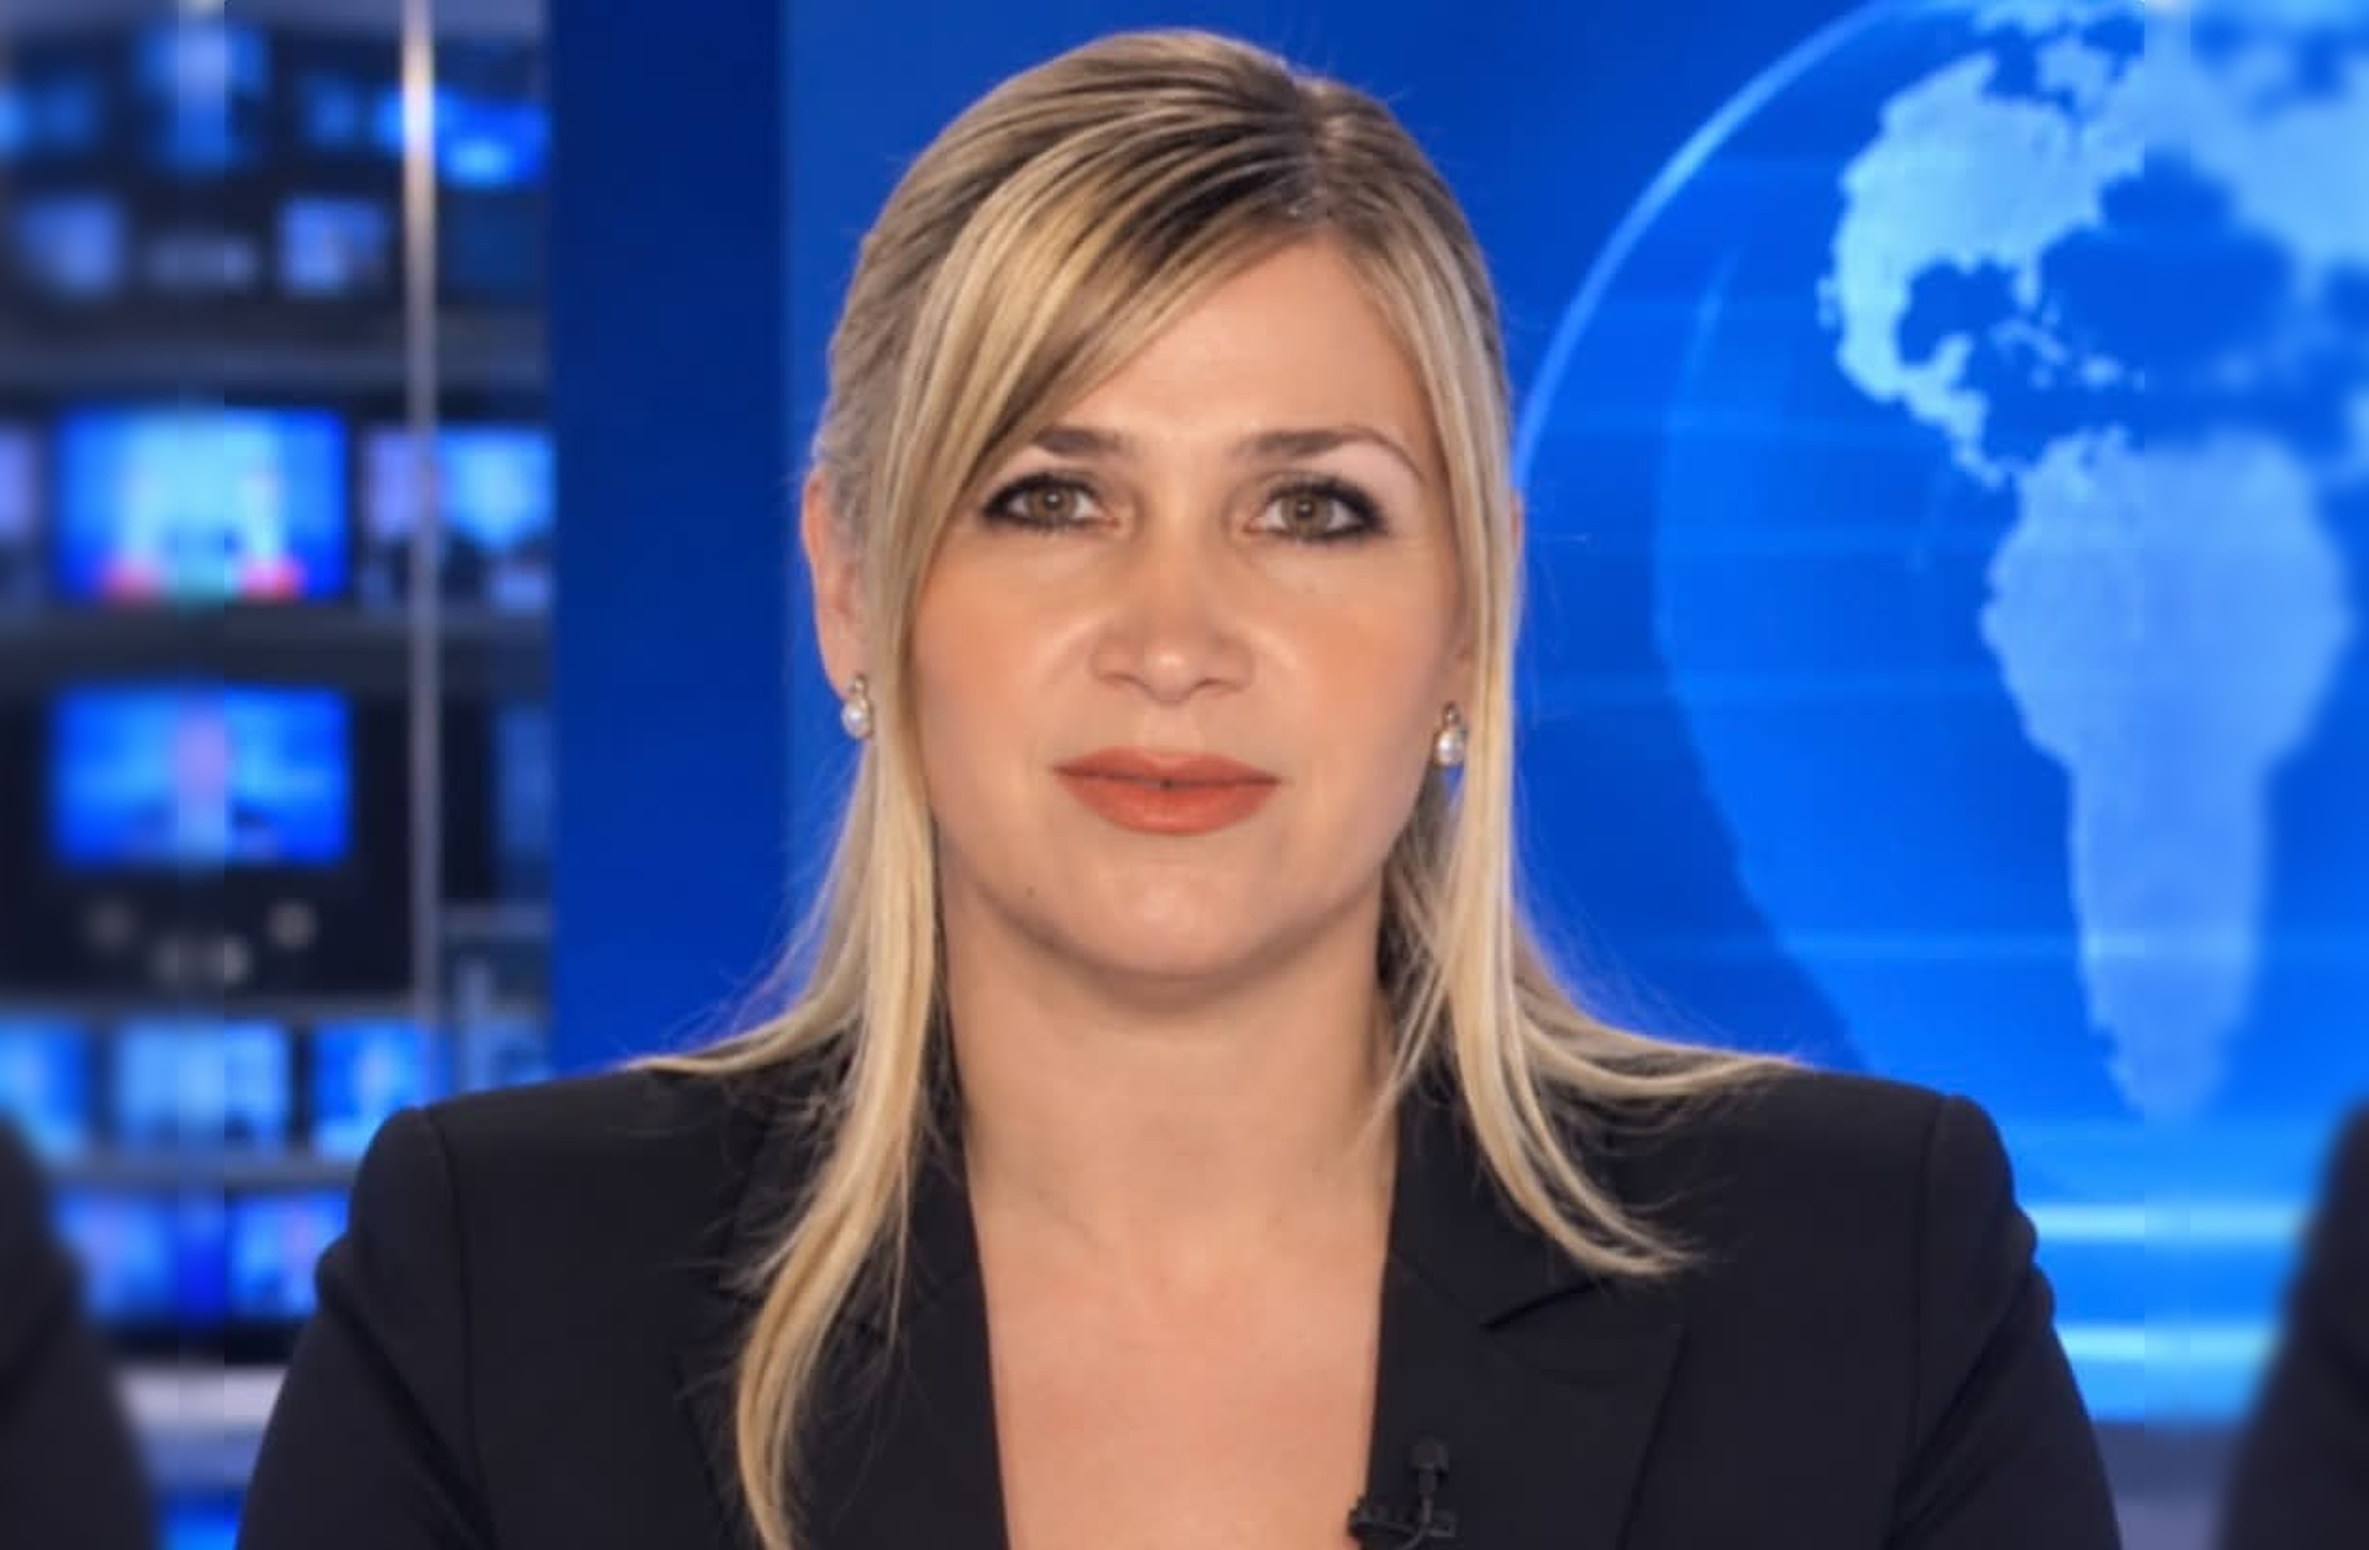
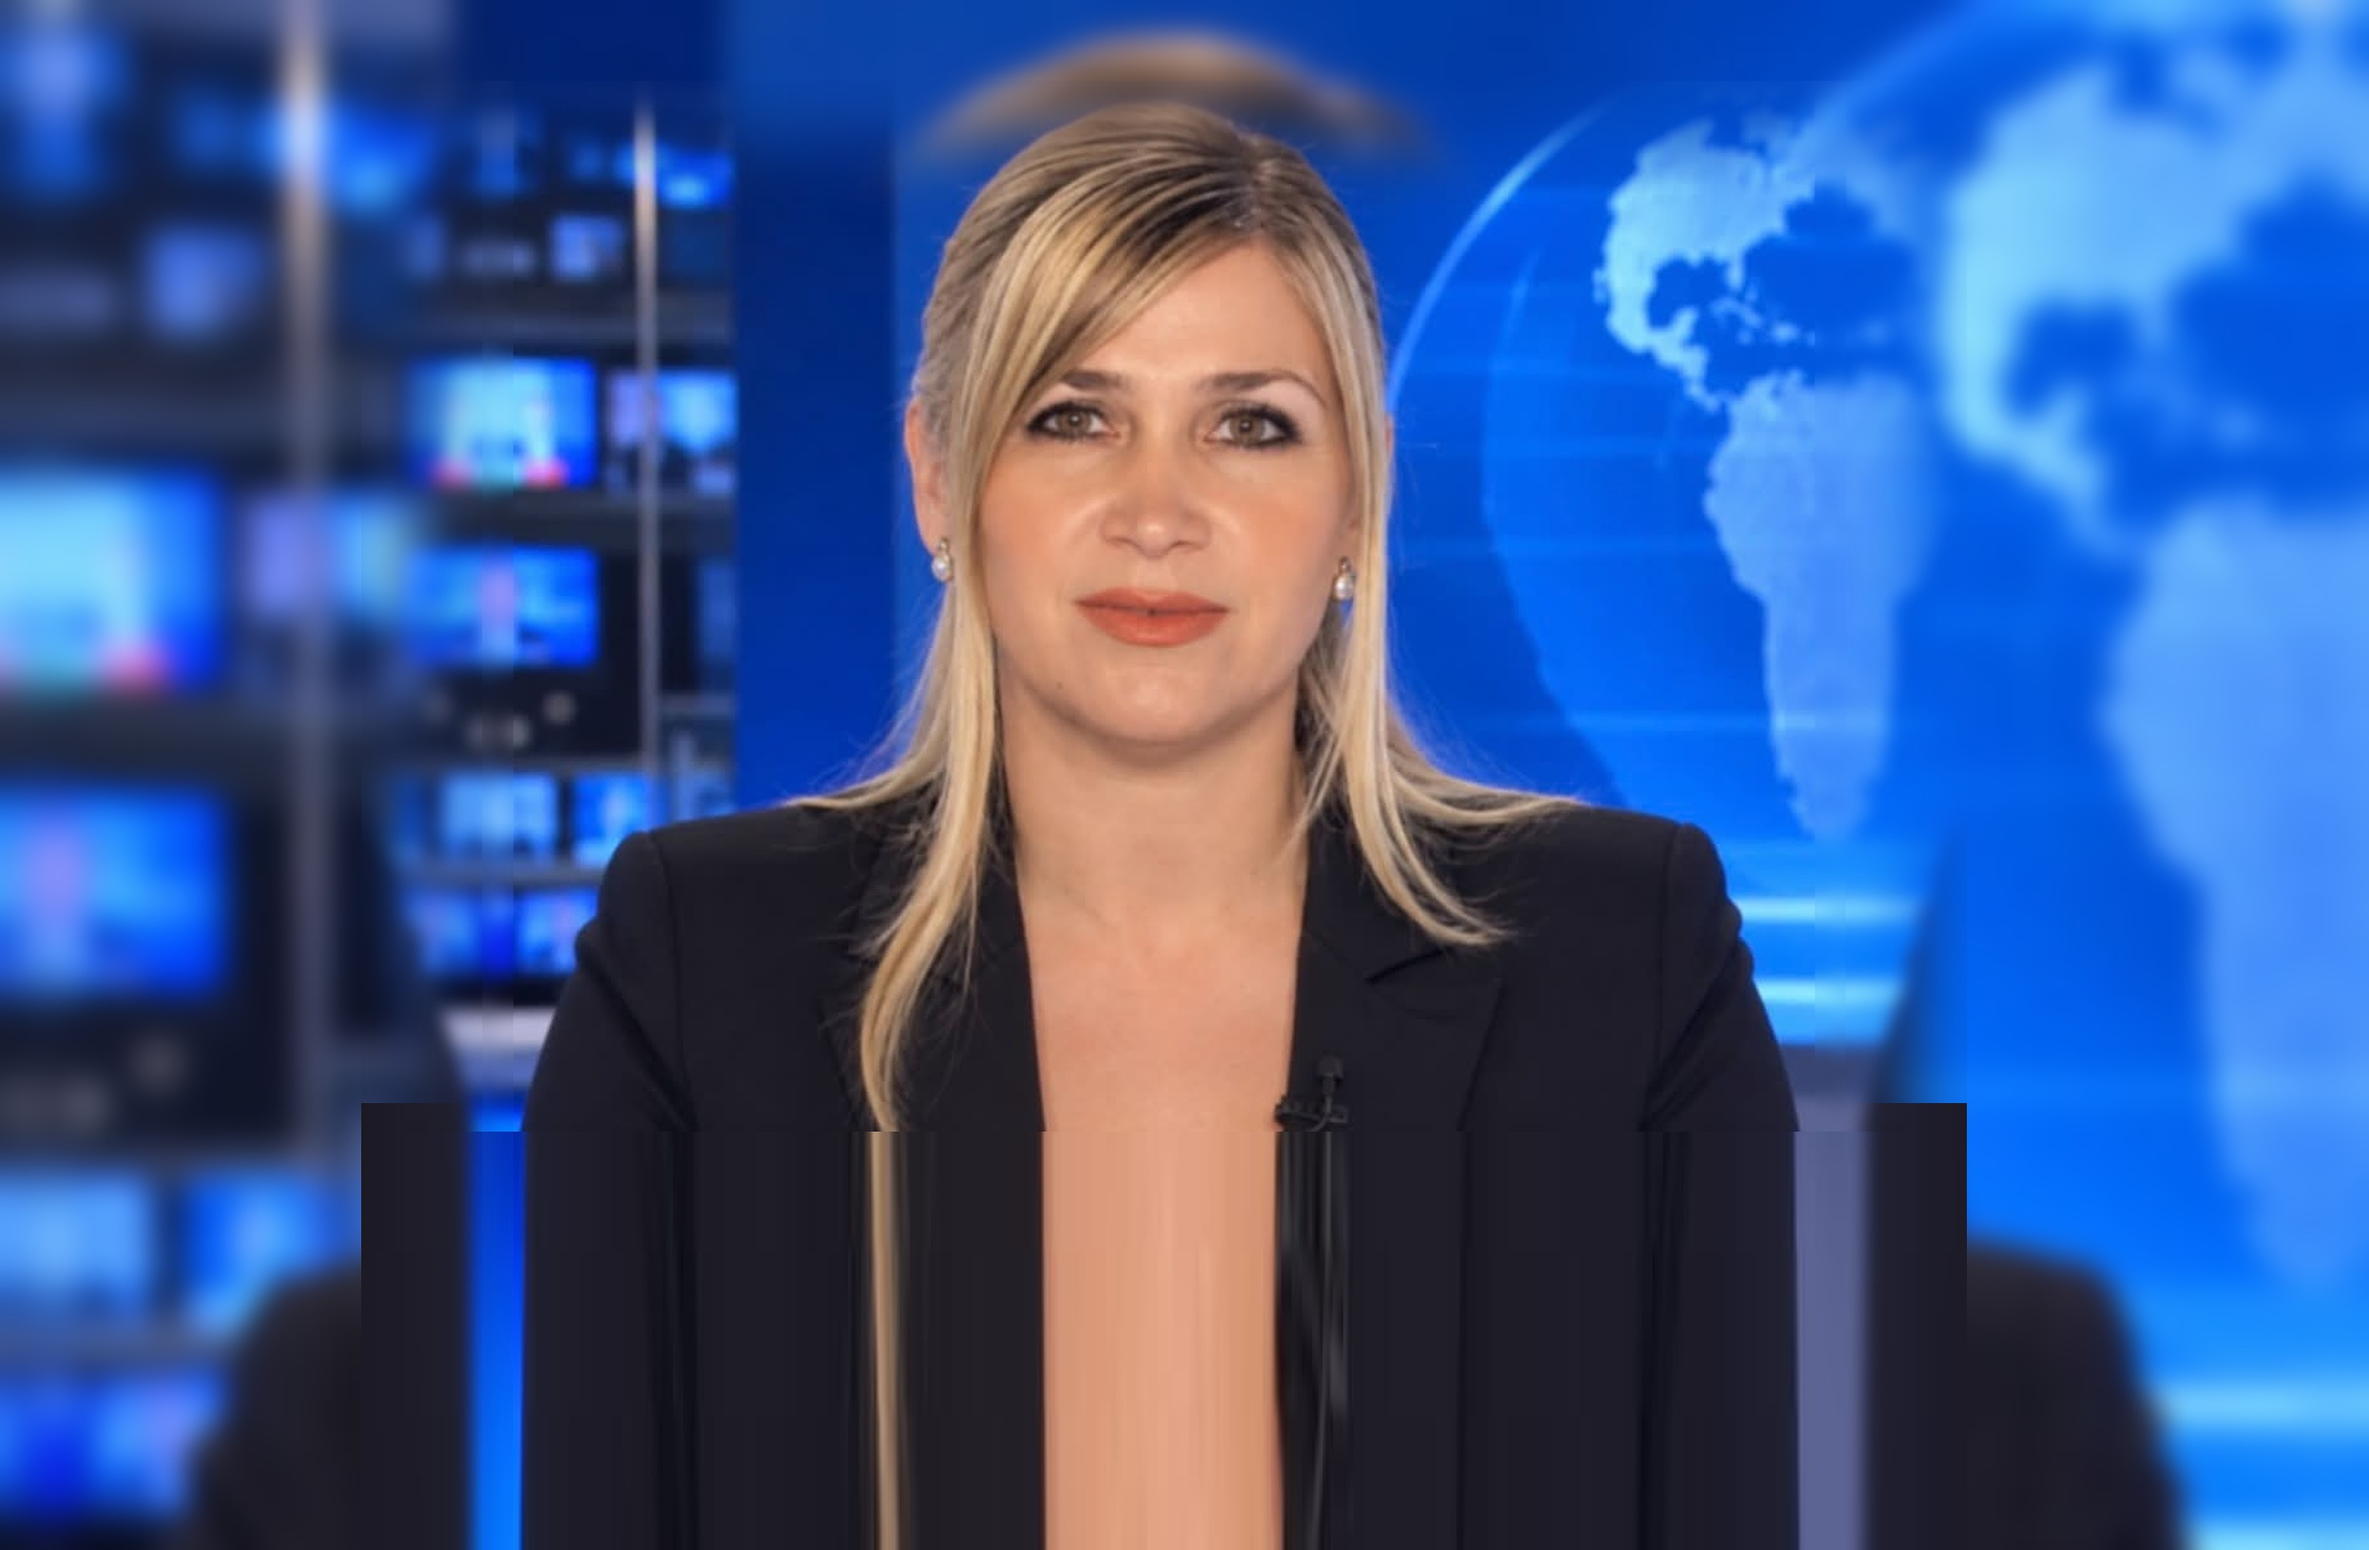
فیروزه در نمای تکی هماندازهی بکتاش: چهره کوچکتر، تنه پیدا، چانه بالای زیرنویس
Claude-Session: https://claude.ai/code/session_0178j5ygZg8Ja8zMfJ6jCj17

diff --git a/tv.py b/tv.py
@@ -422,9 +422,9 @@ WARDROBE = {"man": [None, 345, 150, 25, 215, 280], "woman": [None, 210, 345, 150
 # کت سیاه فیروزه: در هر بخش رنگی دیگر (رنگآمیزی با نگهداشتن سایهروشن). None = سیاه خود عکس
 WARDROBE_FIROOZEH = [(120, 22, 44), (24, 64, 140), (18, 96, 74), (96, 34, 120), None, (18, 104, 124)]
 # پهنای شانهها و بالای سر در عکسها (پیکسل، از نقاب گوینده) برای هماندازه و همسر کردن گویندهها در نمای دو نفره
-BODY = {"man": {"shoulders": 843, "top": 78}, "firoozeh": {"shoulders": 1724, "top": 32}}
+BODY = {"man": {"shoulders": 843, "top": 78}, "firoozeh": {"shoulders": 1169, "top": 107}}
 MAN_TWO = 1.08          # بکتاش در نمای دو نفره کمی بزرگتر
-CHIN = {"man": 0.56, "woman": 0.55, "firoozeh": 0.64}   # زیر چانه در قاب استودیو (برای چهرهی گویا در نمای دو نفره)
+CHIN = {"man": 0.56, "woman": 0.55, "firoozeh": 0.57}   # زیر چانه در قاب استودیو (برای چهرهی گویا در نمای دو نفره)
 
 
 def wardrobe_index():
